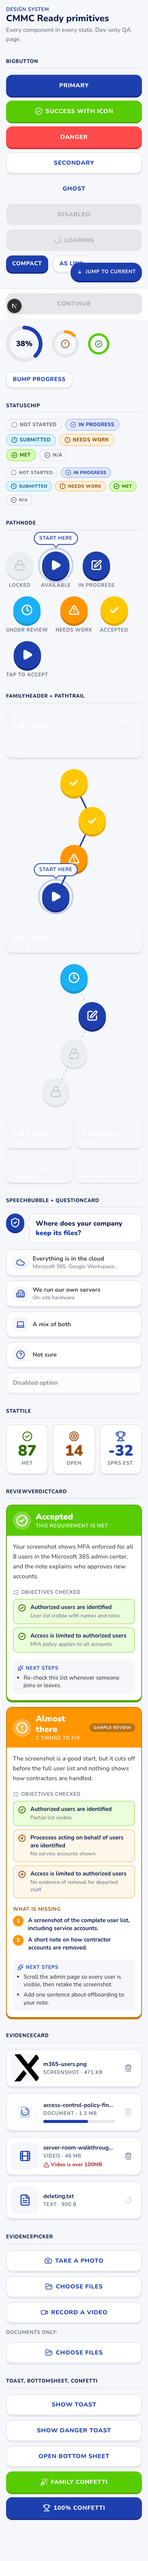
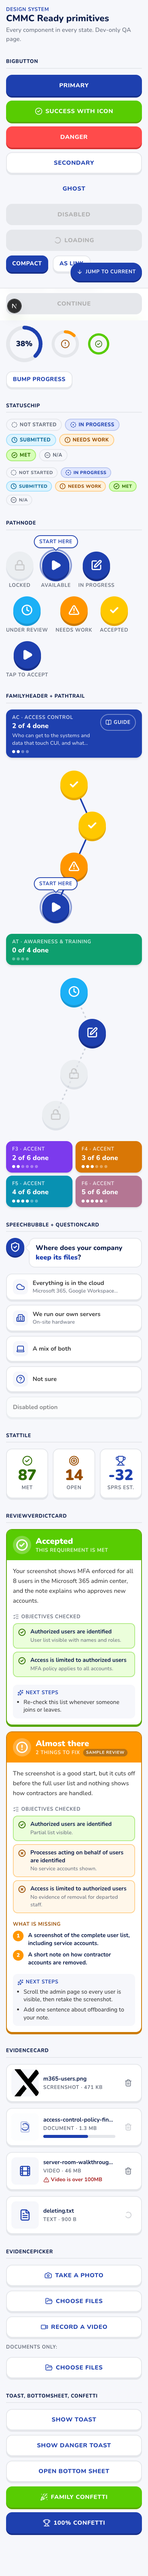
Add design system primitives, layout, and showcase page

diff --git a/src/components/ui/jump-to-current-button.tsx b/src/components/ui/jump-to-current-button.tsx
@@ -20,20 +20,30 @@ export function JumpToCurrentButton({
   const [targetDirection, setTargetDirection] = useState<"up" | "down" | null>(null);
 
   useEffect(() => {
-    const targetElement = document.getElementById(targetElementId);
-    if (!targetElement) return;
-    const intersectionObserver = new IntersectionObserver(
-      ([entry]) => {
-        if (entry.isIntersecting) {
-          setTargetDirection(null);
-          return;
-        }
-        setTargetDirection(entry.boundingClientRect.top < 0 ? "up" : "down");
-      },
-      { threshold: 0.5 },
-    );
-    intersectionObserver.observe(targetElement);
-    return () => intersectionObserver.disconnect();
+    let animationFrameId = 0;
+    const updateTargetDirection = () => {
+      const targetElement = document.getElementById(targetElementId);
+      if (!targetElement) {
+        setTargetDirection(null);
+        return;
+      }
+      const targetRect = targetElement.getBoundingClientRect();
+      const viewportHeight = window.innerHeight;
+      const targetVisible = targetRect.bottom > viewportHeight * 0.1 && targetRect.top < viewportHeight * 0.85;
+      setTargetDirection(targetVisible ? null : targetRect.top < 0 ? "up" : "down");
+    };
+    const scheduleUpdate = () => {
+      cancelAnimationFrame(animationFrameId);
+      animationFrameId = requestAnimationFrame(updateTargetDirection);
+    };
+    scheduleUpdate();
+    window.addEventListener("scroll", scheduleUpdate, { passive: true });
+    window.addEventListener("resize", scheduleUpdate);
+    return () => {
+      cancelAnimationFrame(animationFrameId);
+      window.removeEventListener("scroll", scheduleUpdate);
+      window.removeEventListener("resize", scheduleUpdate);
+    };
   }, [targetElementId]);
 
   const scrollToTarget = () => {
@@ -50,8 +60,12 @@ export function JumpToCurrentButton({
           animate={{ opacity: 1, y: 0, scale: 1 }}
           exit={{ opacity: 0, y: 16, scale: 0.9 }}
           transition={{ type: "spring", stiffness: 380, damping: 28 }}
-          className={`lip lip-press caption fixed right-4 z-30 flex h-12 items-center gap-2 rounded-chip bg-primary px-4 text-white [--lip-color:var(--color-primary-lip)] ${className}`}
-          style={{ bottom: `calc(${bottomOffsetPx}px + env(safe-area-inset-bottom))` }}
+          className={`lip lip-press caption fixed z-30 flex h-12 items-center gap-2 rounded-chip bg-primary px-4 text-white [--lip-color:var(--color-primary-lip)] ${className}`}
+          style={{
+            bottom: `calc(${bottomOffsetPx}px + env(safe-area-inset-bottom))`,
+            // Anchors to the 640px content column on wide screens instead of the viewport edge.
+            right: "max(16px, calc((100vw - 640px) / 2 + 16px))",
+          }}
         >
           {targetDirection === "up" ? <ArrowUp className="size-4" aria-hidden /> : <ArrowDown className="size-4" aria-hidden />}
           {label}

diff --git a/src/app/design/page.tsx b/src/app/design/page.tsx
@@ -155,18 +155,23 @@ export default function DesignShowcasePage() {
 
       <ShowcaseSection title="FamilyHeader + PathTrail">
         <div className="flex flex-col gap-4">
-          <FamilyHeader
-            familyCode="AC"
-            familyName="Access Control"
-            description="Who can get to the systems and data that touch CUI, and what they can do once inside."
-            completedCount={2}
-            totalCount={4}
-            accentIndex={0}
-            onGuideClick={() => showToast({ message: "Guide opens here", tone: "info" })}
-          />
-          <PathTrail nodes={ACCESS_CONTROL_NODES} currentNodeId="AC.L1-b.1.iv" onSelect={handlePathNodeSelect} />
-          <FamilyHeader familyCode="AT" familyName="Awareness & Training" completedCount={0} totalCount={4} accentIndex={1} />
-          <PathTrail nodes={AWARENESS_TRAINING_NODES} onSelect={handlePathNodeSelect} />
+          {/* Each family lives in its own <section> so the next sticky header pushes the previous one out instead of stacking. */}
+          <section className="flex flex-col gap-4">
+            <FamilyHeader
+              familyCode="AC"
+              familyName="Access Control"
+              description="Who can get to the systems and data that touch CUI, and what they can do once inside."
+              completedCount={2}
+              totalCount={4}
+              accentIndex={0}
+              onGuideClick={() => showToast({ message: "Guide opens here", tone: "info" })}
+            />
+            <PathTrail nodes={ACCESS_CONTROL_NODES} currentNodeId="AC.L1-b.1.iv" onSelect={handlePathNodeSelect} />
+          </section>
+          <section className="flex flex-col gap-4">
+            <FamilyHeader familyCode="AT" familyName="Awareness & Training" completedCount={0} totalCount={4} accentIndex={1} />
+            <PathTrail nodes={AWARENESS_TRAINING_NODES} onSelect={handlePathNodeSelect} />
+          </section>
           <div className="flex flex-wrap gap-2">
             {[2, 3, 4, 5].map((accentIndex) => (
               <FamilyHeader

diff --git a/src/components/ui/status-chip.tsx b/src/components/ui/status-chip.tsx
@@ -46,7 +46,7 @@ export function StatusChip({ status, size = "default", className = "" }: StatusC
 
   return (
     <span
-      className={`inline-flex shrink-0 items-center gap-1.5 whitespace-nowrap rounded-chip border-2 font-extrabold uppercase tracking-[0.04em] ${sizeClassName} ${presentation.className} ${className}`}
+      className={`inline-flex shrink-0 self-start items-center gap-1.5 whitespace-nowrap rounded-chip border-2 font-extrabold uppercase tracking-[0.04em] ${sizeClassName} ${presentation.className} ${className}`}
     >
       <StatusIcon className="size-4 shrink-0" strokeWidth={2.5} aria-hidden />
       {presentation.word}

diff --git a/src/components/evidence/evidence-picker.tsx b/src/components/evidence/evidence-picker.tsx
@@ -8,7 +8,7 @@ import { useToast } from "@/components/ui/use-toast";
 import { compressImageForUpload } from "@/lib/client/compress-image";
 import { detectHeicFile } from "@/lib/client/detect-heic";
 import { formatBytes } from "@/lib/client/format";
-import type { EvidenceKind } from "./evidence-kind";
+import type { EvidenceKind } from "@/lib/practice-types";
 
 export type EvidencePickerReadyFile = { file: File; kind: EvidenceKind };
 

diff --git a/src/components/evidence/evidence-card.tsx b/src/components/evidence/evidence-card.tsx
@@ -3,7 +3,7 @@
 import { FileText, Film, LoaderCircle, Trash2, TriangleAlert } from "lucide-react";
 import { ProgressBar } from "@/components/ui/progress-bar";
 import { formatBytes } from "@/lib/client/format";
-import type { EvidenceKind } from "./evidence-kind";
+import type { EvidenceKind } from "@/lib/practice-types";
 
 export type EvidenceCardStatus = "uploading" | "uploaded" | "error";
 
